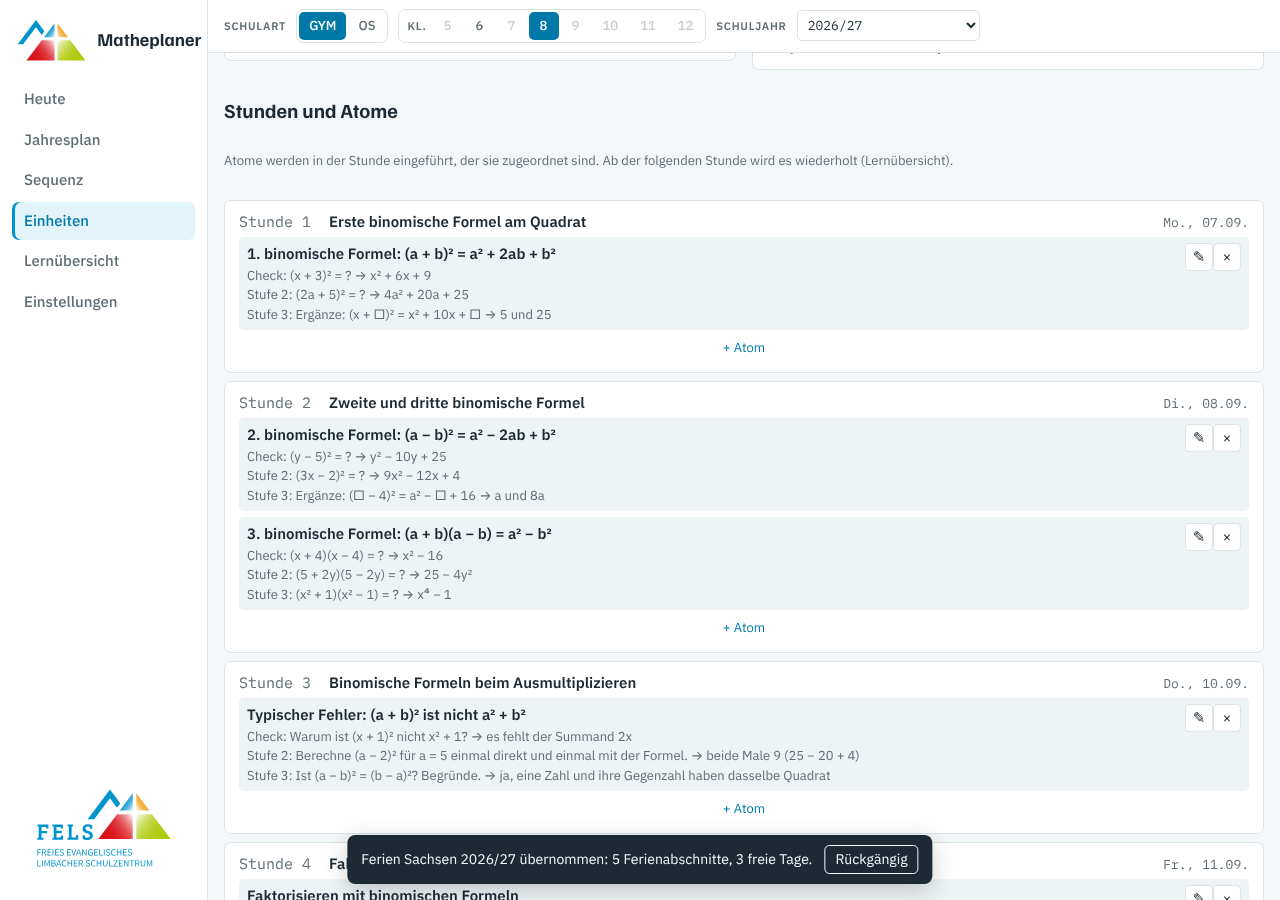
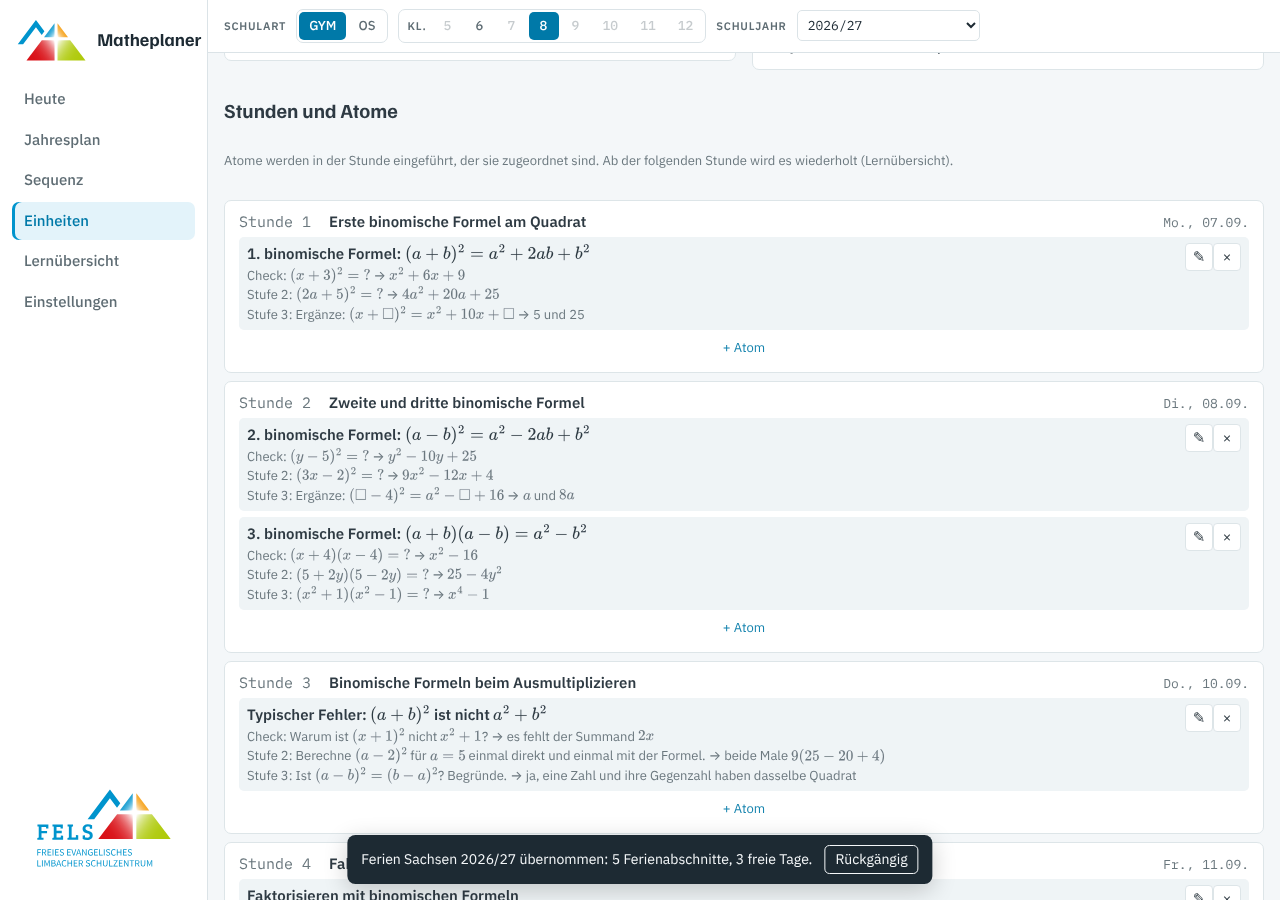
Mathematische Ausdrücke mit MathJax setzen
- mx(): erkennt Formelstellen im Text (Brüche inkl. gemischter Zahlen,
  Hochzahlen, Periode, Punkte, Mengen, Mengenzeichen, griechische Buchstaben,
  Einheiten, Platzhalter) und erzeugt TeX; CAS-Eingaben bleiben Code
- Atome, Prüffragen aller Stufen, Lösungen, Stundentitel und Lehrplantexte
  in Heute, Einheiten, Lernübersicht und Quiz werden gesetzt
- MathJax 3.2.2 (SVG) vom CDN; ohne MathJax bleibt der Originaltext stehen
- Alle 775 erzeugten Ausdrücke setzt MathJax fehlerfrei; Test kann MathJax
  über MATHJAX_JS lokal laden

Claude-Session: https://claude.ai/code/session_01LsRvvx4N56vA7fn2jwzqzo

diff --git a/dist/app.js b/dist/app.js
@@ -25,6 +25,150 @@ function isoWeek(s) {
   const y0 = new Date(Date.UTC(t.getUTCFullYear(), 0, 1));
   return Math.ceil(((t - y0) / 864e5 + 1) / 7);
 }
+/* ---------------- Formelsatz mit MathJax ----------------
+   mx(text) liefert HTML: normaler Text bleibt Text, Formelstellen werden zu <span class="m" data-tex="…">Originaltext</span>.
+   Sobald MathJax geladen ist, ersetzt typesetMath() diese Spans durch SVG; ohne MathJax bleibt der Originaltext sichtbar. */
+const MX_CODE = /[*^]|\b(solve|factor|expand|randInt)\b|^=|=A\d/;
+const MX_UNITS = new Set(["mm", "cm", "dm", "km", "ml", "kg", "min", "ct", "€"]);
+const MX_UNIT1 = new Set(["m", "l", "g", "h", "s", "t"]);
+const MX_GREEK = { "α": "\\alpha ", "β": "\\beta ", "γ": "\\gamma ", "δ": "\\delta ", "Δ": "\\Delta ", "Ω": "\\Omega ", "π": "\\pi ", "ℕ": "\\mathbb{N}", "ℤ": "\\mathbb{Z}", "ℚ": "\\mathbb{Q}" };
+const MX_OPS = { "+": "+", "−": "-", "·": "\\cdot ", "×": "\\times ", "=": "=", "<": "<", ">": ">", "≤": "\\le ", "≥": "\\ge ", "≠": "\\ne ", "≈": "\\approx ", "∈": "\\in ", "∉": "\\notin ", "⊂": "\\subset ", "∪": "\\cup ", "∩": "\\cap ", "|": "\\mid ", "…": "\\ldots ", ":": "\\mathbin{:}", ",": ",\\," };
+const MX_SUP = { "²": "2", "³": "3", "⁴": "4" };
+const MX_RE = /(\d{1,3}(?: \d{3})+(?![\d,])|\d+(?:,\d+)?\u0305?)|([A-Za-zÄÖÜäöüß]{2,}[²³]?)|([A-Za-zα-ωΑ-ΩℕℤℚΔ](?:_[a-z])?ₐ?′?)|(½)|([²³⁴])|([+−·×=<>≤≥≠≈∈∉⊂∪∩|…:\/√])|([()[\]{}])|(□)|(\?)|(%|°)|(\s+)|([\s\S])/gu;
+const MX_KINDS = ["num", "word", "let", "half", "sup", "op", "par", "box", "q", "pct", "sp", "other"];
+function mxTokens(s) {
+  const out = []; let m; MX_RE.lastIndex = 0;
+  while ((m = MX_RE.exec(s))) { const k = MX_KINDS[m.slice(1).findIndex(x => x !== undefined)]; out.push({ k, v: m[0], i: m.index }); }
+  for (let i = 0; i < out.length; i++) {
+    const t = out[i], n = out[i + 1], p = out[i - 1], pp = out[i - 2];
+    if (t.k === "let" && n && n.k === "num" && /^[A-Z]$/.test(t.v)) { t.k = "word"; n.k = "word"; }        // Zellbezug A2
+    else if (t.k === "let" && n && n.k === "other" && n.v === ".") t.k = "word";                             // z. B., d. h.
+    else if (t.k === "let" && n && n.k === "other" && n.v === "-" && /^[A-Z]$/.test(t.v)) t.k = "word";      // L-förmig
+    else if (t.k === "let" && p && p.k === "sp" && pp && (pp.k === "num" || pp.k === "q") && MX_UNIT1.has(t.v)) t.k = "unit";   // 2,5 l; ? l
+    else if (t.k === "word") {
+      const base = t.v.replace(/[²³]$/, "");
+      if (MX_UNITS.has(base) || /^(mm|cm|dm|km|m)[²³]$/.test(t.v)) t.k = "unit";
+      else if (p && p.k === "num" && /^[a-z]{2,3}$/.test(t.v)) t.k = "var";                                 // 12ab, 2ac
+    }
+    if (t.k === "let") t.k = "var";
+  }
+  return out;
+}
+const MX_MATH = new Set(["num", "var", "half", "sup", "op", "par", "box", "q", "pct", "unit", "sp"]);
+function mxRuns(tk) {
+  const runs = []; let i = 0;
+  const prevNs = (a, j) => { for (let x = j - 1; x >= a; x--) if (tk[x].k !== "sp") return tk[x]; return null; };
+  const nextNs = j => { for (let x = j + 1; x < tk.length; x++) if (tk[x].k !== "sp") return tk[x]; return null; };
+  while (i < tk.length) {
+    const t = tk[i];
+    if (!MX_MATH.has(t.k) || ["sp", "unit", "pct", "sup", "q"].includes(t.k) || (t.k === "op" && !"−√".includes(t.v))) { i++; continue; }
+    let j = i, depth = 0;
+    for (; j < tk.length; j++) {
+      const u = tk[j];
+      if (u.k === "par") { depth += "([{".includes(u.v) ? 1 : -1; continue; }
+      if (u.k === "other" && u.v === "," && depth > 0) { u.k = "op"; continue; }
+      if (u.k === "q") { const pv = prevNs(i, j); if (pv && pv.v === "=") continue; break; }
+      if (u.k === "op" && u.v === ":") {                                                                     // Division nur als „a : b“ mit Leerzeichen
+        const pv = prevNs(i, j), nx = nextNs(j);
+        if (!(tk[j - 1] && tk[j - 1].k === "sp" && tk[j + 1] && tk[j + 1].k === "sp")) break;
+        const okL = pv && (["num", "var", "sup", "box"].includes(pv.k) || pv.v === ")"), okR = nx && ["num", "var", "half", "box", "par"].includes(nx.k);
+        if (okL && okR) continue;
+        break;
+      }
+      if (!MX_MATH.has(u.k)) break;
+    }
+    let a = i, e = j;
+    while (e > a && ["sp", "op"].includes(tk[e - 1].k) && tk[e - 1].v !== "…") e--;                       // kein Operator am Ende
+    const bal = (x, y) => { let d = 0; for (let z = x; z < y; z++) if (tk[z].k === "par") { d += "([{".includes(tk[z].v) ? 1 : -1; if (d < 0) return false; } return d === 0; };
+    while (e > a && !bal(a, e)) {                                                                            // Klammern ausgleichen
+      if (tk[e - 1].k === "par" && "([{".includes(tk[e - 1].v)) e--;
+      else if (tk[a].k === "par") a++;
+      else e--;
+      while (e > a && ["sp", "op"].includes(tk[e - 1].k)) e--;
+      while (a < e && tk[a].k === "sp") a++;
+    }
+    const seg = tk.slice(a, e);
+    const strong = seg.some(u => (u.k === "op" && u.v !== ",") || u.k === "sup" || u.k === "half" || u.k === "box" || u.k === "pct" || /[\u0305²³ₐ′_]/.test(u.v) || (u.k === "var" && /[α-ωΑ-ΩℕℤℚΔ]/.test(u.v)) || (u.k === "num" && /,\d/.test(u.v)))
+      || seg.some((u, z) => u.k === "var" && z > 0 && seg[z - 1].k === "num")
+      || (seg.length === 1 && seg[0].k === "var");
+    if (seg.length && strong) runs.push([a, e]);
+    i = Math.max(j, i + 1);
+  }
+  return runs;
+}
+function mxTex(tk) {
+  const it = [];
+  const varTex = v => [...v].map(c => MX_GREEK[c] || (c === "′" ? "'" : c === "ₐ" ? "_a" : c)).join("").replace(/_([a-z])/g, "_{$1}");
+  for (let i = 0; i < tk.length; i++) {
+    const t = tk[i], last = it[it.length - 1];
+    if (t.k === "num") it.push({ k: "atom", num: true, tex: t.v.replace(/(\d)\u0305/g, "\\overline{$1}").replace(/,/g, "{,}").replace(/ /g, "\\,") });
+    else if (t.k === "var" || t.k === "half") {
+      const tex = t.k === "half" ? "\\tfrac{1}{2}" : varTex(t.v);
+      if (last && last.k === "atom" && (last.num || last.attach)) { last.tex += tex; last.num = false; last.attach = true; last.paren = false; }
+      else it.push({ k: "atom", tex, attach: t.k === "half" });
+    }
+    else if (t.k === "sup") { if (last) last.tex += "^{" + MX_SUP[t.v] + "}"; }
+    else if (t.k === "par" && "([{".includes(t.v)) {
+      let d = 0, j = i;
+      for (; j < tk.length; j++) if (tk[j].k === "par") { d += "([{".includes(tk[j].v) ? 1 : -1; if (d === 0) break; }
+      const inner = mxTex(tk.slice(i + 1, j)), close = (tk[j] || {}).v || ")";
+      const o = t.v === "{" ? "\\{" : t.v, c = close === "}" ? "\\}" : close;
+      const atom = { k: "atom", tex: o + inner + c, inner, paren: t.v === "(" };
+      if (last && last.k === "atom") { last.tex += atom.tex; last.paren = false; last.num = false; } else it.push(atom);
+      i = j;
+    }
+    else if (t.k === "op" && t.v === "/") it.push({ k: "slash" });
+    else if (t.k === "op" && t.v === "√") it.push({ k: "sqrt" });
+    else if (t.k === "op") it.push({ k: "op", tex: MX_OPS[t.v] || t.v });
+    else if (t.k === "box") it.push({ k: "atom", tex: "\\square " });
+    else if (t.k === "q") it.push({ k: "atom", tex: "\\text{?}" });
+    else if (t.k === "unit") { const b = t.v.replace(/[²³]$/, ""), s = t.v.slice(b.length); it.push({ k: "atom", tex: "\\,\\text{" + b + "}" + (s ? "^{" + MX_SUP[s] + "}" : "") }); }
+    else if (t.k === "pct") { if (t.v === "°" && last) last.tex += "^{\\circ}"; else it.push({ k: "atom", tex: "\\,\\%" }); }
+    else if (t.k === "sp") it.push({ k: "sp" });
+  }
+  // Wurzel auf das nächste Atom, Brüche aus Atom / Atom, gemischte Zahlen „2 1/4“
+  for (let i = 0; i < it.length; i++) if (it[i].k === "sqrt" && it[i + 1] && it[i + 1].k === "atom") { it[i + 1].tex = "\\sqrt{" + (it[i + 1].paren ? it[i + 1].inner : it[i + 1].tex) + "}"; it[i + 1].paren = false; it.splice(i, 1); }
+  for (let i = 0; i < it.length; i++) {
+    if (it[i].k !== "slash") continue;
+    let l = i - 1; while (l >= 0 && it[l].k === "sp") l--;
+    let r = i + 1; while (r < it.length && it[r].k === "sp") r++;
+    if (l < 0 || r >= it.length || it[l].k !== "atom" || it[r].k !== "atom") { it[i] = { k: "op", tex: "/" }; continue; }
+    const opd = x => x.paren ? x.inner : x.tex;
+    let tex = "\\frac{" + opd(it[l]) + "}{" + opd(it[r]) + "}", from = l;
+    const L = it[l], sp = it[l - 1], N = it[l - 2], before = it[l - 3];
+    if (L.num && sp && sp.k === "sp" && N && N.k === "atom" && N.num && (!before || before.k === "op" || (before.k === "sp" && (!it[l - 4] || it[l - 4].k === "op")))) { tex = N.tex + tex; from = l - 2; }
+    it.splice(from, r - from + 1, { k: "atom", tex });
+    i = from;
+  }
+  return it.filter(x => x.k !== "sp").map(x => x.tex || "").join(" ").replace(/\s+/g, " ").trim();
+}
+function mx(s) {
+  s = String(s ?? "");
+  if (!s || MX_CODE.test(s)) return esc(s);
+  const tk = mxTokens(s), runs = mxRuns(tk);
+  if (!runs.length) return esc(s);
+  let html = "", pos = 0;
+  for (const [a, e] of runs) {
+    const from = tk[a].i, to = tk[e - 1].i + tk[e - 1].v.length;
+    html += esc(s.slice(pos, from)) + `<span class="m" data-tex="${esc(mxTex(tk.slice(a, e)))}">${esc(s.slice(from, to))}</span>`;
+    pos = to;
+  }
+  return html + esc(s.slice(pos));
+}
+const mxCache = new Map();
+function typesetMath(root) {
+  const M = window.MathJax;
+  if (!M || !M.tex2svg || !root) return;
+  // MathJax-Stylesheet einmalig einbinden (blendet u. a. die MathML-Fassung für Screenreader visuell aus)
+  if (!typesetMath.css && M.svgStylesheet) { try { document.head.appendChild(M.svgStylesheet()); } catch (e) {} typesetMath.css = true; }
+  root.querySelectorAll("span.m:not(.mj)").forEach(el => {
+    const tex = el.dataset.tex; let node = mxCache.get(tex);
+    try {
+      if (!node) { node = M.tex2svg(tex, { display: false }); if (node.querySelector("[data-mjx-error]")) throw 0; mxCache.set(tex, node); }
+      el.title = el.textContent; el.replaceChildren(node.cloneNode(true)); el.classList.add("mj");
+    } catch (e) { el.classList.add("mj"); }
+  });
+}
 const DAYS = ["", "Mo", "Di", "Mi", "Do", "Fr"];
 const LBVAR = { LB1: "lb1", LB2: "lb2", LB3: "lb3", LB4: "lb4", LB5: "lb5", WB: "wb", test: "test", start: "start", P: "buf" };
 const sty = lb => `--c:var(--${LBVAR[lb] || "buf"});--bg:var(--${LBVAR[lb] || "buf"}-bg)`;
@@ -662,7 +806,7 @@ function todayCard(k, d) {
   body += slots.map(s => slotBlock(k, s)).join("");
   if (!slots.some(s => s.lesson)) {
     const nx = sc.slots.find(s => s.date > d && s.lesson);
-    if (nx) { const li = lessonInfo(k, nx.lesson); body += `<div class="next"><span class="lbl">Nächste Stunde · ${esc(fmt(nx.date, { weekday: "short", day: "2-digit", month: "2-digit" }))}, ${nx.period}. Std.</span>${unitLink(k, nx.lesson.row.code)}<div class="small">${esc(li.title)}</div></div>`; }
+    if (nx) { const li = lessonInfo(k, nx.lesson); body += `<div class="next"><span class="lbl">Nächste Stunde · ${esc(fmt(nx.date, { weekday: "short", day: "2-digit", month: "2-digit" }))}, ${nx.period}. Std.</span>${unitLink(k, nx.lesson.row.code)}<div class="small">${mx(li.title)}</div></div>`; }
   }
   const es = engineState(k, d);
   const rv = es.pick.map(x => reviewItem(k, x)).join("");
@@ -693,9 +837,9 @@ function slotBlock(k, s) {
   const sc = schedule(k);
   return `<div class="slot ${done ? "done" : ""}" style="${sty(lbOf(k, L.row.code))}">${tag}<div class="sbody">
     ${unitLink(k, L.row.code)}
-    <div class="stitle">Stunde ${L.n} von ${L.row.hours}: ${esc(li.title)}</div>
+    <div class="stitle">Stunde ${L.n} von ${L.row.hours}: ${mx(li.title)}</div>
     ${!sc.seqMode ? `<div class="small muted">${esc(trackName(k, s.track))}</div>` : ""}
-    ${li.atoms.length ? `<div class="newatoms"><div class="lbl">Neu in dieser Stunde</div><ul>${li.atoms.map(a => `<li>${esc(a.t)}<span class="q">Check: ${esc(a.q)} <i>→ ${esc(a.a)}</i></span></li>`).join("")}</ul></div>` : ""}
+    ${li.atoms.length ? `<div class="newatoms"><div class="lbl">Neu in dieser Stunde</div><ul>${li.atoms.map(a => `<li>${mx(a.t)}<span class="q">Check: ${mx(a.q)} <i>→ ${mx(a.a)}</i></span></li>`).join("")}</ul></div>` : ""}
     <div class="acts">
       <button type="button" class="btn ${done ? "ok" : ""} sm" data-act="done" data-k="${k}" data-key="${s.key}" aria-pressed="${done}">${done ? "✓ Gehalten" : "Als gehalten markieren"}</button>
       ${L.row.code !== "P" && L.row.code !== "JA" ? `<button type="button" class="btn ghost sm" data-act="addhour" data-k="${k}" data-row="${L.row.idx}">Einheit braucht 1 Std. mehr</button>` : ""}
@@ -707,8 +851,8 @@ function reviewItem(k, x) {
   const state = x.isNew ? `<span class="pill new">erste Wiederholung</span>` : x.backlog ? `<span class="pill">Altbestand · ${esc(fmt(x.intro))}</span>` : `<span class="pill">${Math.round(x.R * 100)} % Abruf</span>`;
   return `<div class="ritem" style="${sty(lbOf(k, x.code))}">
     <div class="rtop"><span class="chip"><b>${esc(x.code)}</b></span>${levelPill(task.l)}${state}</div>
-    <div class="rq">${esc(task.q)}</div>
-    ${open ? `<div class="ra">${esc(task.a)}</div><div class="rt small muted">${esc(x.a.t)}</div>${rateButtons(k, id)}` : `<button type="button" class="btn ghost sm" data-act="reveal" data-id="${esc(k + id)}">Lösung zeigen</button>`}
+    <div class="rq">${mx(task.q)}</div>
+    ${open ? `<div class="ra">${mx(task.a)}</div><div class="rt small muted">${mx(x.a.t)}</div>${rateButtons(k, id)}` : `<button type="button" class="btn ghost sm" data-act="reveal" data-id="${esc(k + id)}">Lösung zeigen</button>`}
   </div>`;
 }
 const RATES = [[1, "Nochmal", "unter 50 % richtig"], [2, "Schwer", "50–70 %"], [3, "Gut", "70–90 %"], [4, "Leicht", "über 90 %"]];
@@ -810,13 +954,13 @@ function viewUnit(kc, idx) {
   if (!u) return `<p>Einheit nicht gefunden.</p>`;
   const sc = schedule(k), r = sc.rows.find(x => x.code === code), E = S.eng[k];
   const atoms = atomsOf(k, code), nL = Math.max(u.stunden.length, r ? r.hours : 0, ...atoms.map(a => a.l), 1);
-  const list = (t, a) => a && a.length ? `<div class="box"><h3>${t}</h3><ul>${a.map(x => `<li>${esc(x)}</li>`).join("")}</ul></div>` : "";
+  const list = (t, a) => a && a.length ? `<div class="box"><h3>${t}</h3><ul>${a.map(x => `<li>${mx(x)}</li>`).join("")}</ul></div>` : "";
   let lessons = "";
   for (let n = 1; n <= nL; n++) {
     const slot = r && r.slots[n - 1];
     const title = u.stunden[n - 1] || (r && n <= r.hours ? "Übung und Vertiefung" : "(über die geplanten Stunden hinaus)");
     const la = atoms.filter(a => a.l === n);
-    lessons += `<div class="lesson"><div class="lhead"><span class="mono muted">Stunde ${n}</span><span class="ltitle">${esc(title)}</span><span class="mono small muted">${slot ? fmt(slot.date, { weekday: "short", day: "2-digit", month: "2-digit" }) + (grp(k).done[slot.key] ? " ✓" : "") : r && n > r.hours ? "nicht eingeplant" : ""}</span></div>
+    lessons += `<div class="lesson"><div class="lhead"><span class="mono muted">Stunde ${n}</span><span class="ltitle">${mx(title)}</span><span class="mono small muted">${slot ? fmt(slot.date, { weekday: "short", day: "2-digit", month: "2-digit" }) + (grp(k).done[slot.key] ? " ✓" : "") : r && n > r.hours ? "nicht eingeplant" : ""}</span></div>
       <ul class="alist">${la.map(a => atomRow(k, code, a, E.cards[a.id])).join("")}</ul>
       ${UI.editAtom && UI.editAtom.code === code && UI.editAtom.id === "new" && UI.editAtom.l === n ? atomForm(k, code, { l: n, t: "", q: "", a: "" }, "new") : `<button type="button" class="linkbtn small" data-act="atomnew" data-code="${esc(code)}" data-l="${n}">+ Atom</button>`}
     </div>`;
@@ -836,7 +980,7 @@ function viewUnit(kc, idx) {
 function atomRow(k, code, a, card) {
   if (UI.editAtom && UI.editAtom.id === a.id) return `<li>${atomForm(k, code, a, a.id)}</li>`;
   const st = card ? `<span class="pill">${Math.round(Rof(Math.max(0, diffDays(card.last, UI.date)), card.s) * 100)} % · ab ${fmt(card.due)}</span>` : "";
-  return `<li class="atom"><div><b>${esc(a.t)}</b> ${st}<div class="small muted">Check: ${esc(a.q)} → ${esc(a.a)}</div>${a.q2 ? `<div class="small muted">Stufe 2: ${esc(a.q2)} → ${esc(a.a2)}</div>` : ""}${a.q3 ? `<div class="small muted">Stufe 3: ${esc(a.q3)} → ${esc(a.a3)}</div>` : ""}</div>
+  return `<li class="atom"><div><b>${mx(a.t)}</b> ${st}<div class="small muted">Check: ${mx(a.q)} → ${mx(a.a)}</div>${a.q2 ? `<div class="small muted">Stufe 2: ${mx(a.q2)} → ${mx(a.a2)}</div>` : ""}${a.q3 ? `<div class="small muted">Stufe 3: ${mx(a.q3)} → ${mx(a.a3)}</div>` : ""}</div>
     <span class="nowrap"><button type="button" class="mini" data-act="atomedit" data-code="${esc(code)}" data-id="${esc(a.id)}" aria-label="Atom bearbeiten">✎</button><button type="button" class="mini del" data-act="atomdel" data-code="${esc(code)}" data-id="${esc(a.id)}" aria-label="Atom löschen">×</button></span></li>`;
 }
 function atomForm(k, code, a, id) {
@@ -868,7 +1012,7 @@ function viewEngine() {
   const tbl = unitsSorted.map(code => `<tr class="ugroup"><td colspan="6">${unitLink(k, code)}</td></tr>` + byUnit[code].map(x => {
     const c = x.card;
     const R = x.R !== null && x.R !== undefined ? x.R : null;
-    return `<tr><td>${esc(x.a.t)}</td><td>${x.future ? "" : levelPill(taskOf(x.a, levelOf(x)).l)}</td>
+    return `<tr><td>${mx(x.a.t)}</td><td>${x.future ? "" : levelPill(taskOf(x.a, levelOf(x)).l)}</td>
       <td>${R !== null ? `<span class="rbar"><i style="width:${Math.round(R * 100)}%"></i></span><span class="mono small">${Math.round(R * 100)} %</span>` : `<span class="small muted">${x.future ? (x.intro ? "ab " + fmt(x.intro) : "nicht eingeplant") : x.backlog ? "Altbestand" : "neu"}</span>`}</td>
       <td class="mono small">${c ? c.s.toFixed(1) + " T." : "—"}</td>
       <td class="mono small">${c ? fmt(c.due) : x.isNew ? "jetzt" : "—"}</td>
@@ -1014,9 +1158,10 @@ function renderOverlay() {
   }
   el.innerHTML = `<div class="ov-card quiz" role="dialog" aria-label="Wiederholung" style="${sty(lbOf(q.k, x.code))}">
     <header><span class="chip"><b>${esc(x.code)}</b></span>${levelPill(taskOf(x.a, levelOf(x)).l)}<span class="mono muted">${q.i + 1} / ${q.items.length}</span><button type="button" class="iconbtn" data-act="ovclose" aria-label="Schließen">×</button></header>
-    <div class="qq">${esc(taskOf(x.a, levelOf(x)).q)}</div>
-    ${q.show ? `<div class="qa">${esc(taskOf(x.a, levelOf(x)).a)}</div><div class="small muted center">${esc(x.a.t)}</div>${rateButtons(q.k, x.a.id).replace(/data-act="rate"/g, 'data-act="qrate"')}` : `<button type="button" class="btn big" data-act="qshow">Lösung zeigen <span class="muted small">(Leertaste)</span></button>`}
+    <div class="qq">${mx(taskOf(x.a, levelOf(x)).q)}</div>
+    ${q.show ? `<div class="qa">${mx(taskOf(x.a, levelOf(x)).a)}</div><div class="small muted center">${mx(x.a.t)}</div>${rateButtons(q.k, x.a.id).replace(/data-act="rate"/g, 'data-act="qrate"')}` : `<button type="button" class="btn big" data-act="qshow">Lösung zeigen <span class="muted small">(Leertaste)</span></button>`}
   </div>`;
+  typesetMath(el);
 }
 
 /* ---------------- router & render ---------------- */
@@ -1044,6 +1189,7 @@ function renderNow() {
   const main = document.getElementById("main");
   const sy = window.scrollY;
   main.innerHTML = html;
+  typesetMath(main);
   if (render.keepScroll) window.scrollTo(0, sy);
   render.keepScroll = true;
   renderOverlay();
@@ -1252,8 +1398,10 @@ document.addEventListener("keydown", ev => {
 
 /* ---------------- boot ---------------- */
 let downloads = null;
-window.__mp = { __lv: (g, d, id) => { touch(); const x = engineState(g, d).list.find(y => y.a.id === id); return x ? taskOf(x.a, levelOf(x)) : null; }, S, schedule, engineState, fsrsReview, lessonInfo, UI, cal, sachsenYear, switchYear, createYear, ttFromLegacy, applyDoc };
+window.__mp = { mx, __lv: (g, d, id) => { touch(); const x = engineState(g, d).list.find(y => y.a.id === id); return x ? taskOf(x.a, levelOf(x)) : null; }, S, schedule, engineState, fsrsReview, lessonInfo, UI, cal, sachsenYear, switchYear, createYear, ttFromLegacy, applyDoc };
 render.keepScroll = false;
+/* MathJax lädt asynchron; sobald es bereit ist, die schon gezeichneten Formeln setzen */
+window.__mpMathReady = () => { typesetMath(document.getElementById("main")); typesetMath(document.getElementById("overlay")); };
 renderBanner(); render();
 if (route() === "plan") { const c = document.getElementById("curweek"); if (c) c.scrollIntoView({ block: "center" }); }
 initDb();

diff --git a/src/test.js b/src/test.js
@@ -1,4 +1,5 @@
 // Headless-Test: node src/test.js [ausgabeordner-für-screenshots]
+// Ohne Internet: MATHJAX_JS=/pfad/zu/mathjax/es5/tex-svg.js setzen, dann wird die CDN-Adresse dorthin umgeleitet.
 const { chromium } = require('playwright');
 const path = require('path');
 const http = require('http');
@@ -22,6 +23,7 @@ function serve(dir) {
 (async () => {
   const srv = await serve(path.join(ROOT, 'dist')), BASE = `http://127.0.0.1:${srv.address().port}/`;
   const b = await chromium.launch(); const ctx = await b.newContext({ viewport: { width: 1280, height: 900 } }); const p = await ctx.newPage();
+  if (process.env.MATHJAX_JS) await ctx.route(/cdnjs\.cloudflare\.com\/ajax\/libs\/mathjax\/.*tex-svg/, r => r.fulfill({ path: process.env.MATHJAX_JS, contentType: 'text/javascript' }));
   const errs = []; p.on('pageerror', e => errs.push(e.message)); p.on('console', m => { if (m.type() === 'error') errs.push(m.text()); });
   // neuer Browser-Kontext = leerer Speicher; ein Neuladen später prüft, ob alles erhalten bleibt
   await p.goto(BASE + 'index.html#heute'); await p.waitForTimeout(500);
@@ -35,6 +37,15 @@ function serve(dir) {
   console.log(JSON.stringify(r));
   ok(r.kl6.cap.A === r.kl6.planned.A, 'Kl. 6 geht auf');
   ok(r.kl8.cap.A === r.kl8.planned.A && r.kl8.cap.SOL > 0, 'Kl. 8 geht auf, SOL ab 26.10.');
+
+  // Formelsatz: Formeln werden als <span class="m" data-tex> ausgezeichnet und mit MathJax als SVG gesetzt
+  ok(await p.evaluate(() => { const h = document.createElement('div'); h.innerHTML = window.__mp.mx('2 1/4 + x² = 0,3̅'); const m = h.querySelector('span.m'); return m && m.dataset.tex === '2\\frac{1}{4} + x^{2} = 0{,}\\overline{3}'; }), 'Formel-Erkennung: gemischte Zahl, Hochzahl, Periode');
+  ok(await p.evaluate(() => !window.__mp.mx('2*(x+1)^2').includes('span') && !window.__mp.mx('z. B. Skizze').includes('span')), 'CAS-Eingaben und Abkürzungen bleiben Text');
+  const mjOk = await p.waitForFunction(() => window.MathJax && window.MathJax.tex2svg, null, { timeout: 20000 }).then(() => true, () => false);
+  if (mjOk) {
+    await p.waitForTimeout(300);
+    ok(await p.evaluate(() => document.querySelectorAll('#main span.m.mj svg').length > 0 && document.querySelectorAll('#main span.m:not(.mj)').length === 0), 'MathJax setzt alle Formeln der Seite als SVG');
+  } else console.log('info MathJax nicht erreichbar: Formeln bleiben als Text (MATHJAX_JS setzen, um den Satz zu testen)');
 
   // Design: Seitenleiste mit Logo, Kacheln, Lernübersicht
   ok((await p.innerText('#nav')).includes('Lernübersicht') && !(await p.innerText('#nav')).includes('Engine'), 'Navigation heißt „Lernübersicht“');

diff --git a/dist/index.html b/dist/index.html
@@ -142,6 +142,9 @@ label.chk{justify-content:flex-start}
 .newatoms{background:var(--soft);border-radius:6px;padding:8px 10px}
 .newatoms ul{margin:4px 0 0;padding-left:18px;display:grid;gap:4px}
 .newatoms .q{display:block;font-size:12.5px;color:var(--muted)}
+/* Formeln (MathJax-SVG) im Textfluss */
+span.m.mj{white-space:nowrap}
+span.m.mj mjx-container{display:inline}
 .lbl{font-size:11px;text-transform:uppercase;letter-spacing:.07em;color:var(--muted);font-weight:600}
 .next{display:grid;gap:4px;padding:10px 12px;border:1px dashed var(--line);border-radius:7px}
 .free{font-weight:500}
@@ -321,6 +324,18 @@ ol.sol{margin:0;padding-left:22px;display:grid;gap:8px} ol.sol span{display:bloc
 </div>
 <div id="overlay" hidden></div>
 <div id="toast" role="status" hidden></div>
+<script>
+/* MathJax (SVG-Ausgabe, keine externen Schriften). Die App setzt Formeln selbst über MathJax.tex2svg;
+   ohne MathJax bleibt der normale Text stehen. */
+window.MathJax = {
+  loader: { load: [] },
+  tex: { packages: { "[+]": [] } },
+  svg: { fontCache: "local" },
+  options: { enableMenu: false },
+  startup: { typeset: false, ready() { MathJax.startup.defaultReady(); MathJax.startup.promise.then(() => { if (window.__mpMathReady) window.__mpMathReady(); }); } }
+};
+</script>
+<script async src="https://cdnjs.cloudflare.com/ajax/libs/mathjax/3.2.2/es5/tex-svg.min.js"></script>
 <script src="data.js"></script>
 <script src="app.js"></script>
 </body>

diff --git a/README.md b/README.md
@@ -30,6 +30,8 @@ python3 -I src/fetch_ferien.py  # optional: Ferien Sachsen aktualisieren
 python3 -I src/extract.py       # in/*.xlsx -> src/plan.json
 python3 -I src/build_data.py    # plan.json + atoms.py -> dist/data.js
 NODE_PATH=$(npm root -g) node src/test.js   # startet einen lokalen Webserver, Screenshots nach docs/screenshots
+# ohne Internet: MathJax lokal bereitstellen, z. B. npm pack mathjax@3.2.2 und
+# MATHJAX_JS=/pfad/package/es5/tex-svg.js voranstellen
 ```
 
 ## Funktionen
@@ -44,6 +46,9 @@ NODE_PATH=$(npm root -g) node src/test.js   # startet einen lokalen Webserver, S
   werden einmal für alle geplant. Jede Parallelklasse hat eigenen Stundenplan, Zeiträume ohne Unterricht, Ausfälle,
   Häkchen und Lernstand. „Einheit braucht 1 Std. mehr“ und automatische Pufferkürzung werden als Abweichung nur dieser
   Klasse gespeichert und in der Sequenz neben den Stunden angezeigt (z. B. „8b: +1“). Gewechselt wird oben in der Leiste.
+- **Formelsatz**: Mathematische Ausdrücke in Atomen, Aufgaben, Stundentiteln und Lehrplantexten werden automatisch erkannt
+  (Brüche wie `3/4` und `2 1/4`, Hochzahlen, Periode, Punkte `P(2 | 5)`, Mengen, Einheiten) und mit MathJax 3 (SVG, vom CDN)
+  gesetzt; auch selbst bearbeitete Atome. Ohne MathJax bleibt der normale Text stehen. CAS-Eingaben wie `2*(x+1)^2` bleiben Code.
 - **Design**: Farben aus dem Schullogo (Blau #0094cd, Orange #f59b0a, Grün #afca0b, Rot #d91016; für Text abgedunkelt).
   Seitenleiste mit Felszeichen, Navigation und vollem Logo, auf dem Handy als Kopfzeile. Heute zeigt für die gewählte Klasse
   vier Kacheln: aktuelle Einheit, heute fällig, ø Abruf, Reserve (rot, wenn Stunden fehlen); Rot nur für Warnungen.
